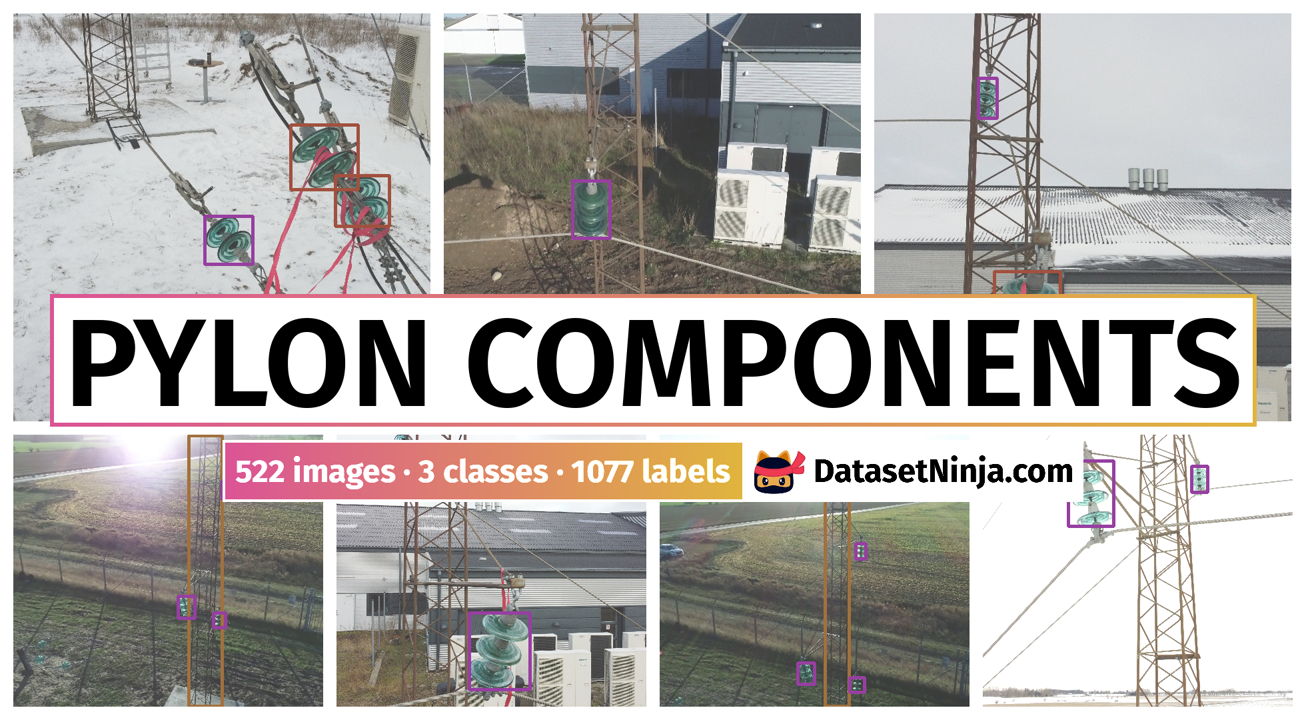
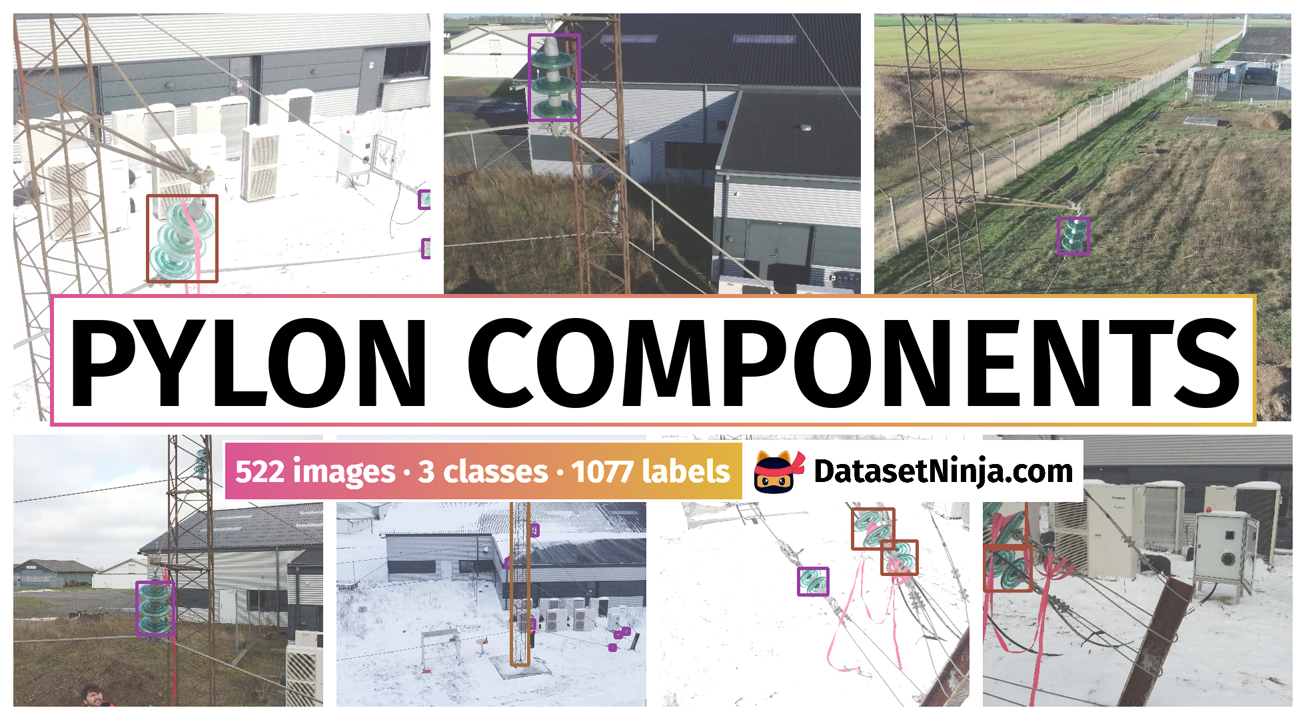
upd custom data

diff --git a/src/settings.py b/src/settings.py
@@ -1,6 +1,14 @@
 from typing import Dict, List, Optional, Union
 
-from dataset_tools.templates import AnnotationType, CVTask, Industry, License
+from dataset_tools.templates import (
+    AnnotationType,
+    Category,
+    CVTask,
+    Domain,
+    Industry,
+    License,
+    Research,
+)
 
 ##################################
 # * Before uploading to instance #
@@ -12,11 +20,16 @@ PROJECT_NAME_FULL: str = "Pylon Components: An open-source pylon components and 
 # * After uploading to instance ##
 ##################################
 LICENSE: License = License.CC_BY_4_0()
-INDUSTRIES: List[Industry] = [Industry.Energy()]
+APPLICATIONS: List[Union[Industry, Domain, Research]] = [Industry.Energy()]
+CATEGORY: Category = Category.EnergyAndUtilities()
+
 CV_TASKS: List[CVTask] = [CVTask.ObjectDetection()]
 ANNOTATION_TYPES: List[AnnotationType] = [AnnotationType.ObjectDetection()]
 
-RELEASE_YEAR: int = 2021
+RELEASE_DATE: Optional[str] = "2021-03-02"  # e.g. "YYYY-MM-DD"
+if RELEASE_DATE is None:
+    RELEASE_YEAR: int = None
+
 HOMEPAGE_URL: str = "https://zenodo.org/record/4573988"
 # e.g. "https://some.com/dataset/homepage"
 
@@ -39,9 +52,13 @@ CLASS2COLOR: Optional[Dict[str, List[str]]] = None
 # If specific colors for classes are needed, fill this dict (e.g. {"class1": [255, 0, 0], "class2": [0, 255, 0]})
 
 PAPER: Optional[str] = None
-CITATION_URL: Optional[str] = None
+CITATION_URL: Optional[str] = "https://zenodo.org/record/4573988/export/hx"
+AUTHORS: Optional[List[str]] = ["Naeem Ayoub", "Oscar Bowen Schofield"]
+
 ORGANIZATION_NAME: Optional[Union[str, List[str]]] = "SDU UAS Center, Denmark"
 ORGANIZATION_URL: Optional[Union[str, List[str]]] = "https://www.sdu.dk/en/forskning/sduuascenter"
+
+SLYTAGSPLIT: Optional[Dict[str, List[str]]] = None
 TAGS: List[str] = None
 
 ##################################
@@ -56,10 +73,15 @@ def check_names():
 
 
 def get_settings():
+    if RELEASE_DATE is not None:
+        global RELEASE_YEAR
+        RELEASE_YEAR = int(RELEASE_DATE.split("-")[0])
+
     settings = {
         "project_name": PROJECT_NAME,
         "license": LICENSE,
-        "industries": INDUSTRIES,
+        "applications": APPLICATIONS,
+        "category": CATEGORY,
         "cv_tasks": CV_TASKS,
         "annotation_types": ANNOTATION_TYPES,
         "release_year": RELEASE_YEAR,
@@ -71,13 +93,16 @@ def get_settings():
     if any([field is None for field in settings.values()]):
         raise ValueError("Please fill all fields in settings.py after uploading to instance.")
 
+    settings["release_date"] = RELEASE_DATE
     settings["project_name_full"] = PROJECT_NAME_FULL or PROJECT_NAME
     settings["download_original_url"] = DOWNLOAD_ORIGINAL_URL
     settings["class2color"] = CLASS2COLOR
     settings["paper"] = PAPER
     settings["citation_url"] = CITATION_URL
+    settings["authors"] = AUTHORS
     settings["organization_name"] = ORGANIZATION_NAME
     settings["organization_url"] = ORGANIZATION_URL
-    settings["tags"] = TAGS if TAGS is not None else []
+    settings["slytagsplit"] = SLYTAGSPLIT
+    settings["tags"] = TAGS
 
     return settings

diff --git a/src/options.py b/src/options.py
@@ -4,7 +4,7 @@
 
 # * Literal["ClassesPreview", "HorizontalGrid", "SideAnnotationsGrid"]
 # * If None, then preview_class will be set automatically to "ClassesPreview"
-PREVIEW_CLASS = None
+PREVIEW_CLASS = "Poster"
 
 IS_DETECTION_TASK: bool = None  # ? Set True if you want to visualize only bbox annotations
 
@@ -65,10 +65,10 @@ HEATMAP_OUTPUT_WIDTH: int = None
 ###############################################################
 
 
-
 ##################################
 ###### ? Do not edit bellow #####
 ##################################
+
 
 def get_visualization_options():
     vis_settings = {

diff --git a/SUMMARY.md b/SUMMARY.md
@@ -1,9 +1,7 @@
-**Pylon Components: An open-source pylon components and fault detection dataset for training the ML Algorithms** is a dataset for object detection tasks. It is used in the energy industry.
+**Pylon Components: An open-source pylon components and fault detection dataset for training the ML Algorithms** is a dataset for object detection tasks. It is used in the energy industry. 
 
 The dataset consists of 522 images with 1077 labeled objects belonging to 3 different classes including *insolator*, *covered_insolator*, and *pylon*.
 
-Images in the Pylon Components dataset have bounding box annotations. All images are labeled (i.e. with annotations). There is 1 split in the dataset: *ds* (522 images). The dataset was released in 2021 by the [SDU UAS Center, Denmark](https://www.sdu.dk/en/forskning/sduuascenter).
+Images in the Pylon Components dataset have bounding box annotations. All images are labeled (i.e. with annotations). There are no pre-defined <i>train/val/test</i> splits in the dataset. The dataset was released in 2021 by the [SDU UAS Center, Denmark](https://www.sdu.dk/en/forskning/sduuascenter).
 
-Here are the visualized examples for each of the 3 classes:
-
-[Dataset classes](https://github.com/dataset-ninja/pylon-components/raw/main/visualizations/classes_preview.webm)
+<img src="https://github.com/dataset-ninja/pylon-components/raw/main/visualizations/poster.png">
